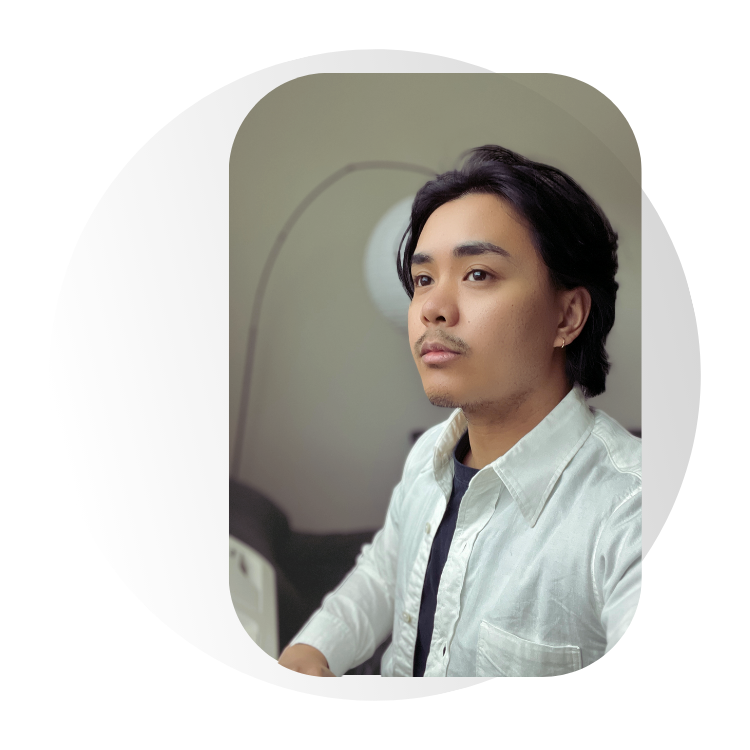
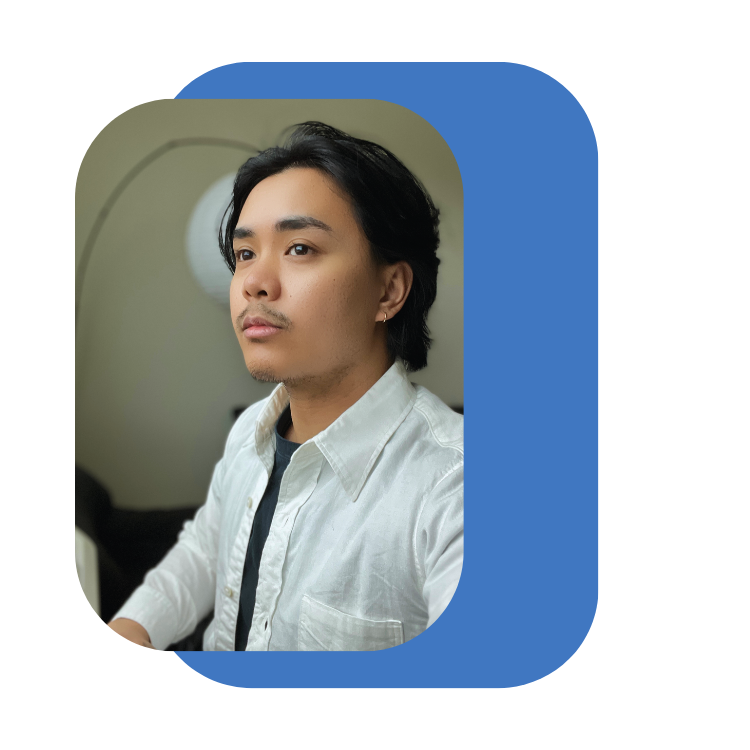
Add headshot w/ graphic design

diff --git a/src/components/Hero.css b/src/components/Hero.css
@@ -1,10 +1,6 @@
-body {
-  background: linear-gradient(to right, #000000, #202020);  
-}
-
 .hero-container {
   display: grid;
-  grid-template-columns: 2fr 1fr;
+  grid-template-columns: 50fr 1fr 1fr;
   gap: 5px;
   position: relative;
 }
@@ -37,15 +33,6 @@ body {
   color: #ccc; 
 }
 
-.headshot img {
-  /* max-width: 100%; */
-  max-height: 100%;
-  height: auto;
-  margin-top: 50px;
-  margin-left: 25px;
-  border-radius: 100px;
-}
-
 .hero-container p {
   font-size: 16.5px;
   font-weight: 200;
@@ -58,7 +45,9 @@ body {
   flex-direction: column;
   justify-content: center;
   align-items: flex-start;
-  margin-right: 200px;
+  /* margin-right: 555px; */
+  /* margin: auto; */
+  /* width: 700px; */
 }
 
 .hello-world {
@@ -131,7 +120,7 @@ body {
     flex-direction: column;
     position: relative;
     /* bottom: 125px; */
-    max-height: 100vh;
+    /* max-height: 100vh; */
   }
 
   .hero-container .headshot img {
@@ -143,10 +132,11 @@ body {
   }
 
   .hero-details {
-    /* margin: 250px auto;  */
-    /* padding-bottom: 25px; */
+    display: flex;
+    padding-bottom: 25px;
     margin: auto;
-    position: relative;
+    margin-left: 100p
+    /* position: relative; */
   }
 
   .hero-details h1 {
